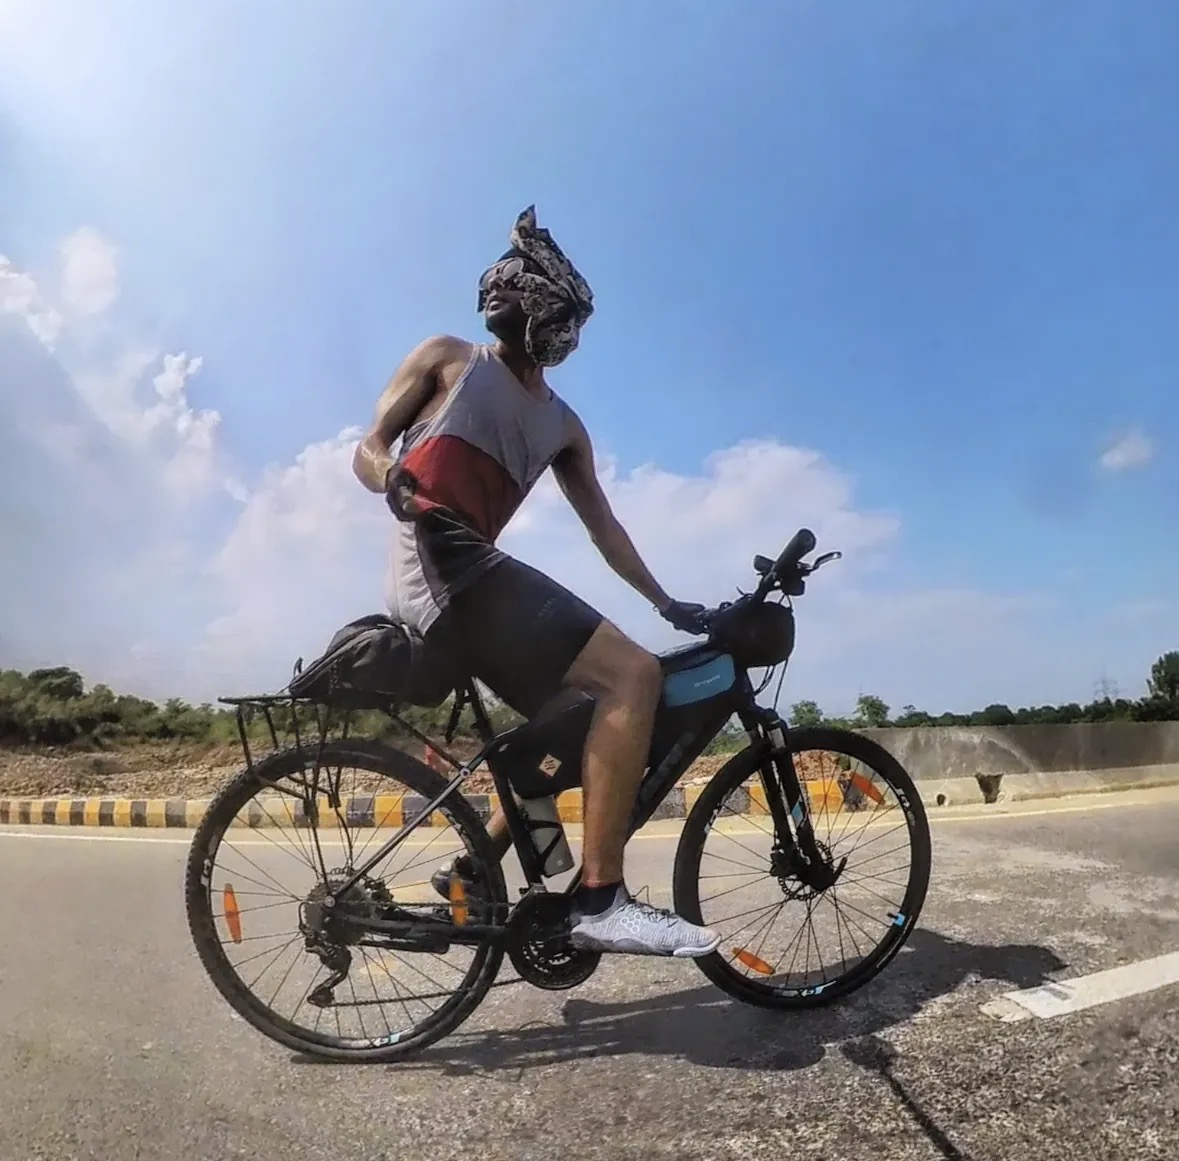
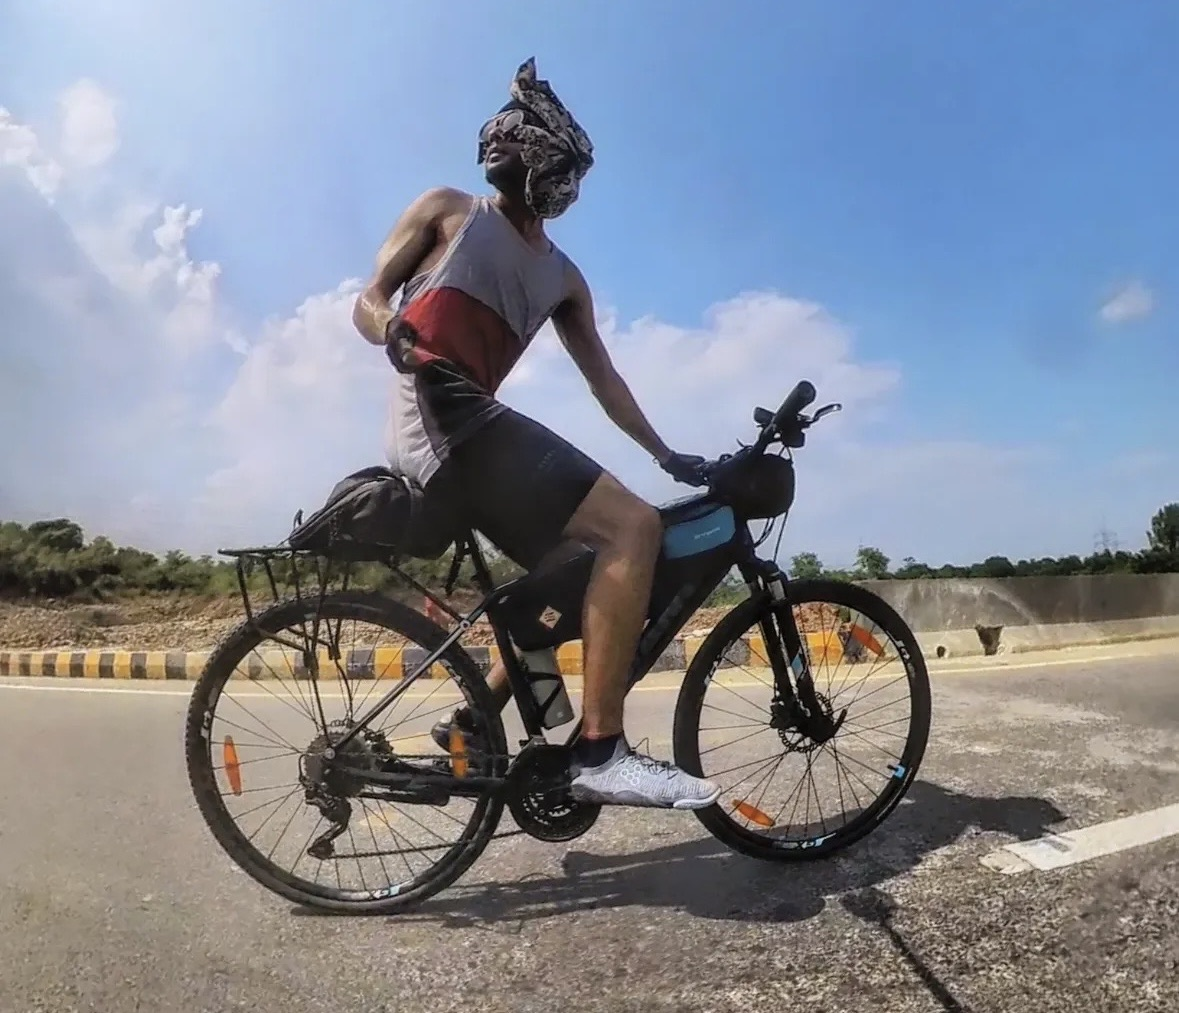
fix:new pictures for team members

diff --git a/src/sections/TeamSection.tsx b/src/sections/TeamSection.tsx
@@ -122,7 +122,7 @@ const TeamSection = () => {
                     src={TEAM_MEMBERS[hoveredIndex].image}
                     alt={TEAM_MEMBERS[hoveredIndex].name}
                     fill
-                    className="object-cover"
+                    className="object-cover object-top"
                     sizes="(max-width: 768px) 100vw, 50vw"
                   />
                 </motion.div>
